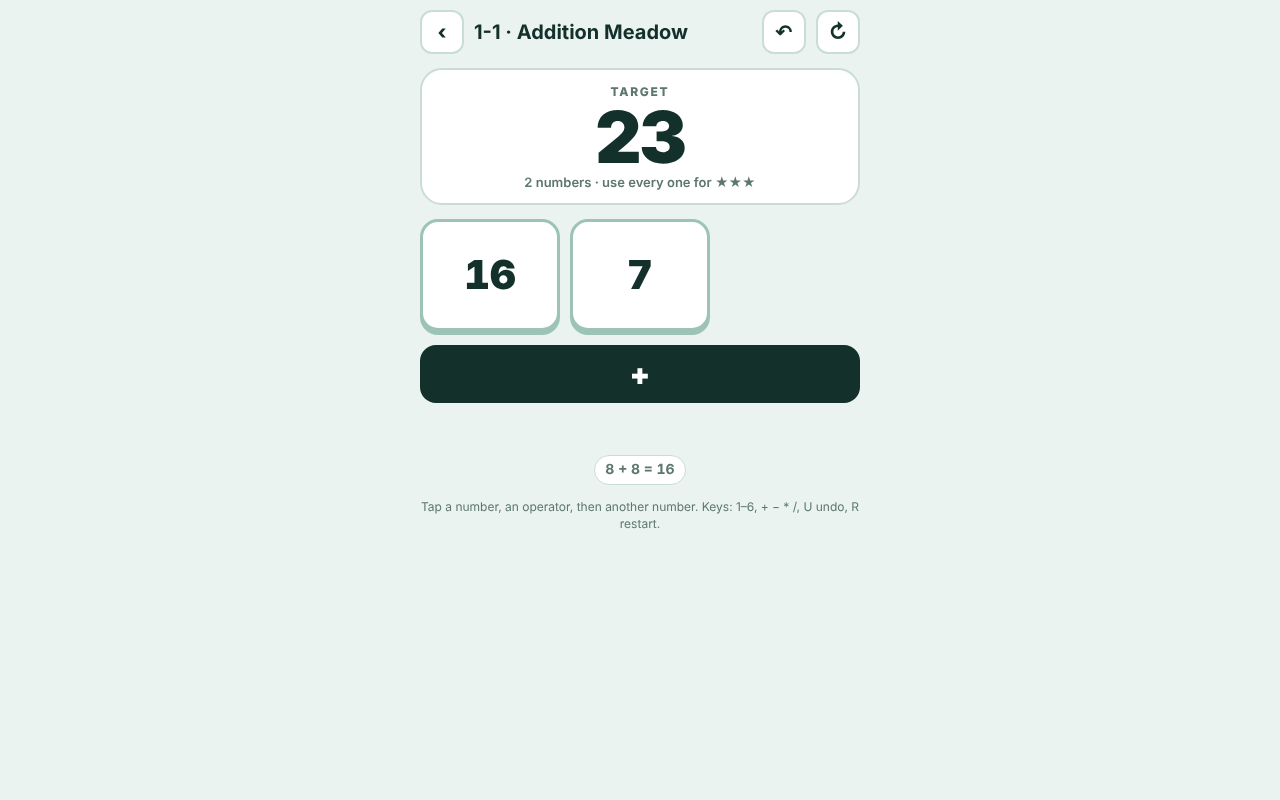
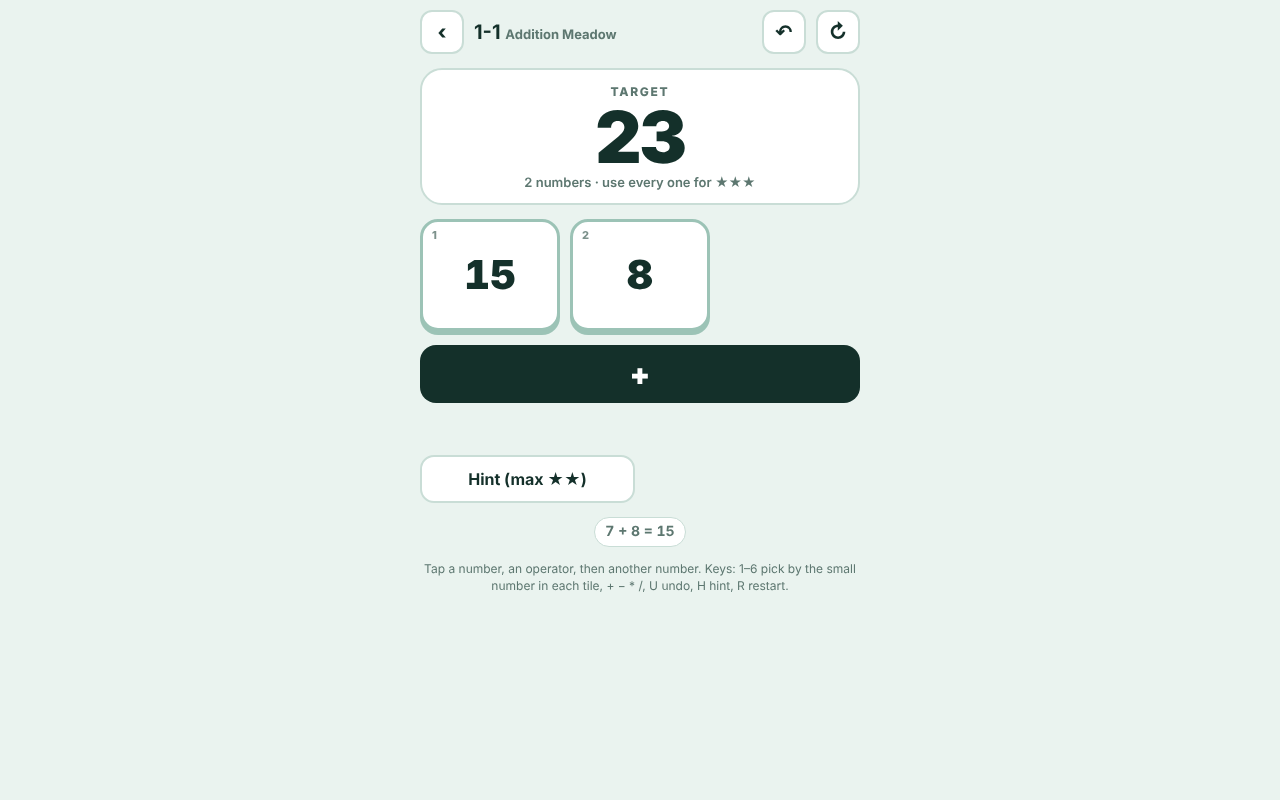
mathly-trails: reviewer fixes — Enter skip, tile position badges, hints, world star gate, harder sorted boards
Claude-Session: https://claude.ai/code/session_014SCvTSvNFtm4ysqQK3KLDP

diff --git a/games/mathly-trails/index.html b/games/mathly-trails/index.html
@@ -99,6 +99,11 @@
   .log { display: flex; flex-wrap: wrap; gap: 6px; justify-content: center; min-height: 30px; }
   .log span { font: 700 14px var(--font); font-variant-numeric: tabular-nums; padding: 4px 10px; border-radius: 999px; background: var(--panel); border: 1px solid var(--line); color: var(--muted); }
   #finishBtn[hidden] { display: none; }
+  .tile .pos { position: absolute; top: 6px; left: 9px; font: 800 11px var(--font); color: var(--muted); opacity: .8; }
+  .tile { position: relative; }
+  .tile.hint { outline: 3px dashed var(--good); outline-offset: 3px; }
+  .op.hint { outline: 3px dashed var(--good); outline-offset: 3px; }
+  .bar h2 small { font-size: 13px; color: var(--muted); font-weight: 700; }
   .overlay { position: fixed; inset: 0; z-index: 5; display: grid; place-items: center; background: rgba(8,20,17,.55); padding: 16px; }
   .overlay[hidden] { display: none; }
   .panel { width: min(100%, 360px); background: var(--panel); border-radius: 22px; padding: 20px 18px 18px; text-align: center; box-shadow: 0 20px 50px rgba(0,0,0,.3); display: grid; gap: 12px; }
@@ -144,9 +149,9 @@
     <div class="tiles" id="tiles"></div>
     <div class="opsrow" id="opsrow"></div>
     <p id="msg" aria-live="polite"></p>
-    <button class="btn" id="finishBtn" hidden>Finish ★</button>
+    <div class="row2"><button class="btn2" id="hintBtn">Hint (max ★★)</button><button class="btn2" id="finishBtn" hidden>Finish ★</button></div>
     <div class="log" id="log"></div>
-    <p class="help" id="keysHelp">Tap a number, an operator, then another number. Keys: 1–6, + − * /, U undo, R restart.</p>
+    <p class="help" id="keysHelp">Tap a number, an operator, then another number. Keys: 1–6 pick by the small number in each tile, + − * /, U undo, H hint, R restart.</p>
   </section>
 
   <div class="overlay" id="ov" hidden>
@@ -185,11 +190,13 @@ const pick = (r, arr) => arr[Math.floor(r() * arr.length)];
 // build a hand of numbers and a target that has a route using every number
 function generate(spec, seed) {
   const r = rng(seed);
-  for (let attempt = 0; attempt < 5000; attempt++) {
+  for (let attempt = 0; attempt < 6000; attempt++) {
+    const cap = spec.cap ? spec.cap * (attempt < 2000 ? 1 : attempt < 4000 ? 3 : 1e9) : 0;
     const nums = [];
     for (let i = 0; i < spec.n; i++) {
       let v = pick(r, spec.pool);
-      if (v >= 25 && nums.includes(v)) v = pick(r, range(1, 9));
+      if ((v >= 25 || v === 1) && nums.includes(v)) v = pick(r, range(2, 9));
+      if (nums.filter((q) => q === v).length >= 2) v = pick(r, range(2, 9));
       nums.push(v);
     }
     let list = nums.slice(), route = [], used = new Set(), ok = true;
@@ -217,7 +224,11 @@ function generate(spec, seed) {
     if (nums.includes(target)) continue;
     const sum = nums.reduce((a, b) => a + b, 0);
     if (spec.ops.length > 1 && target === sum) continue;
-    return { tiles: nums, target, ops: spec.ops, route };
+    if (spec.avoid && spec.avoid.has(target)) continue;
+    if (nums.length > 3 && oneMerge(nums, target, spec.ops)) continue;   // no single-merge shortcuts
+    const routes = cap ? countRoutes(nums, target, spec.ops, cap) : 0;
+    if (cap && routes > cap) continue;
+    return { tiles: nums, target, ops: spec.ops, route, routes };
   }
   throw new Error("generator failed");
 }
@@ -225,25 +236,76 @@ function levelSpec(i) {
   const w = WORLDS[Math.floor(i / PER_WORLD)], l = i % PER_WORLD;
   return { n: w.n[l], ops: w.ops[l], pool: w.pool, t: w.t, must: w.must[l] };
 }
-const levelCache = {};
+// all-tile routes allowed per board (fewer routes = harder), see capFor(); each world's boards are sorted easiest first
+const worldCache = {};
+// Precomputed from the generator below (same seeds and rules) so the map opens instantly.
+const TRAIL_DATA = [
+  [{"tiles":[8,8,7],"target":23,"routes":0},
+   {"tiles":[9,6,9],"target":24,"routes":3},
+   {"tiles":[8,2,9],"target":15,"routes":3},
+   {"tiles":[8,3,5,6],"target":16,"routes":18},
+   {"tiles":[5,7,8,5],"target":11,"routes":18},
+   {"tiles":[8,3,1,6],"target":12,"routes":18},
+   {"tiles":[5,4,9,5,6],"target":17,"routes":180},
+   {"tiles":[9,5,4,6,8],"target":20,"routes":180}],
+  [{"tiles":[2,2,9,4],"target":144,"routes":22},
+   {"tiles":[4,1,2,6],"target":20,"routes":12},
+   {"tiles":[11,6,1,8],"target":59,"routes":10},
+   {"tiles":[8,1,11,5],"target":82,"routes":5},
+   {"tiles":[9,7,11,3,9],"target":100,"routes":78},
+   {"tiles":[8,4,8,5,9],"target":105,"routes":76},
+   {"tiles":[7,12,1,6,3],"target":62,"routes":68},
+   {"tiles":[2,4,9,9,10],"target":25,"routes":62}],
+  [{"tiles":[5,50,4,1],"target":30,"routes":15},
+   {"tiles":[50,8,1,8],"target":48,"routes":8},
+   {"tiles":[8,1,50,9,3],"target":168,"routes":41},
+   {"tiles":[25,7,10,5,1],"target":44,"routes":30},
+   {"tiles":[3,10,50,8,25],"target":32,"routes":26},
+   {"tiles":[50,4,2,1,6],"target":255,"routes":5},
+   {"tiles":[6,8,50,7,8,10],"target":239,"routes":244},
+   {"tiles":[5,8,3,10,5,10],"target":261,"routes":146}],
+  [{"tiles":[25,50,1,6,3],"target":225,"routes":142},
+   {"tiles":[50,7,5,2,7],"target":126,"routes":26},
+   {"tiles":[5,50,9,4,100],"target":891,"routes":25},
+   {"tiles":[9,7,100,50,9,7],"target":738,"routes":240},
+   {"tiles":[100,25,3,9,75,4],"target":746,"routes":183},
+   {"tiles":[75,1,7,7,4,10],"target":529,"routes":98},
+   {"tiles":[6,5,6,100,5,4],"target":342,"routes":90},
+   {"tiles":[4,2,3,3,4,5],"target":242,"routes":28}]
+];
+function worldLevels(w) {
+  if (worldCache[w]) return worldCache[w];
+  if (TRAIL_DATA[w]) return (worldCache[w] = TRAIL_DATA[w].map((g, l) => ({ ...g, ops: levelSpec(w * PER_WORLD + l).ops, kind: "trail", index: w * PER_WORLD + l, id: `${w + 1}-${l + 1}`, world: w })));
+  const avoid = new Set(), out = [];
+  for (let l = 0; l < PER_WORLD; l++) {
+    const i = w * PER_WORLD + l;
+    const sp = levelSpec(i);
+    const g = generate({ ...sp, cap: l === 0 && w === 0 ? 0 : capFor(sp.n), avoid }, 1000 + i * 7919);
+    avoid.add(g.target); out.push(g);
+  }
+  const first = w === 0 ? out.shift() : null;   // 1-1 stays the tutorial
+  // keep each slot's tile count/ops (they grow through the world); within equal specs, more routes first
+  const slots = out.map((g, k) => ({ g, k: k + (first ? 1 : 0) }));
+  slots.sort((x, y) => x.g.tiles.length - y.g.tiles.length || x.g.ops.length - y.g.ops.length || y.g.routes - x.g.routes);
+  const list = first ? [first, ...slots.map((x) => x.g)] : slots.map((x) => x.g);
+  return (worldCache[w] = list.map((g, l) => ({ ...g, kind: "trail", index: w * PER_WORLD + l, id: `${w + 1}-${l + 1}`, world: w })));
+}
 function trailLevel(i) {
-  if (!levelCache[i]) levelCache[i] = { ...generate(levelSpec(i), 1000 + i * 7919), kind: "trail", index: i,
-    id: `${Math.floor(i / PER_WORLD) + 1}-${(i % PER_WORLD) + 1}`, world: Math.floor(i / PER_WORLD) };
-  return levelCache[i];
+  return worldLevels(Math.floor(i / PER_WORLD))[i % PER_WORLD];
 }
 function todayKey() { const d = new Date(); return `${d.getFullYear()}-${String(d.getMonth() + 1).padStart(2, "0")}-${String(d.getDate()).padStart(2, "0")}`; }
 function dailyLevel() {
   const key = todayKey(), seed = Number(key.replace(/-/g, ""));
-  return { ...generate({ n: 6, ops: ["+", "-", "×", "÷"], pool: WORLDS[3].pool, t: [100, 999], must: "×" }, seed), kind: "daily", id: key, world: 3 };
+  return { ...generate({ n: 6, ops: ["+", "-", "×", "÷"], pool: WORLDS[3].pool, t: [100, 999], must: "×", cap: capFor(6) }, seed), kind: "daily", id: key, world: 3 };
 }
 function randomLevel(world) {
   const w = WORLDS[world];
-  const spec = { n: w.n[PER_WORLD - 1], ops: w.ops[PER_WORLD - 1], pool: w.pool, t: w.t, must: w.must[PER_WORLD - 1] };
+  const spec = { n: w.n[PER_WORLD - 1], ops: w.ops[PER_WORLD - 1], pool: w.pool, t: w.t, must: w.must[PER_WORLD - 1], cap: capFor(w.n[PER_WORLD - 1]) };
   return { ...generate(spec, (Math.random() * 2 ** 31) | 0), kind: "random", id: "Random", world };
 }
 
 // ======================= core (pure, no DOM) =======================
-function newGame(level) { return { level, tiles: level.tiles.slice(), target: level.target, ops: level.ops, history: [], log: [], done: false }; }
+function newGame(level) { return { level, tiles: level.tiles.slice(), target: level.target, ops: level.ops, history: [], log: [], done: false, hinted: false }; }
 // a and b index into g.tiles; result "a op b" takes b's place. Returns {ok, reason}.
 function merge(g, a, op, b) {
   if (g.done || a === b || a < 0 || b < 0 || a >= g.tiles.length || b >= g.tiles.length || !g.ops.includes(op)) return { ok: false, reason: "That move isn't available." };
@@ -258,7 +320,7 @@ function merge(g, a, op, b) {
 }
 function undo(g) { if (!g.history.length || g.done) return false; const h = g.history.pop(); g.tiles = h.tiles; g.log = h.log; return true; }
 const made = (g) => g.tiles.includes(g.target);
-const starsNow = (g) => !made(g) ? 0 : g.tiles.length === 1 ? 3 : g.tiles.length === 2 ? 2 : 1;
+const starsNow = (g) => { const s = !made(g) ? 0 : g.tiles.length === 1 ? 3 : g.tiles.length === 2 ? 2 : 1; return g.hinted ? Math.min(2, s) : s; };
 function validMerges(g) {
   const out = [];
   for (let a = 0; a < g.tiles.length; a++) for (let b = 0; b < g.tiles.length; b++) {
@@ -267,6 +329,36 @@ function validMerges(g) {
   }
   return out;
 }
+
+function oneMerge(nums, target, ops) {
+  for (let a = 0; a < nums.length; a++) for (let b = 0; b < nums.length; b++) if (a !== b) for (const op of ops) if (OPS[op](nums[a], nums[b]) === target) return true;
+  return false;
+}
+// number of distinct all-tile routes (commutative merges counted once), stops early past cap
+function countRoutes(tiles, target, ops, cap, budget = 150000) {
+  const memo = new Map();
+  let visits = 0;
+  function rec(t) {
+    if (++visits > budget) return Infinity;
+    if (t.length === 1) return t[0] === target ? 1 : 0;
+    const key = t.slice().sort((p, q) => p - q).join(",");
+    if (memo.has(key)) return memo.get(key);
+    let n = 0;
+    for (let a = 0; a < t.length && n <= cap; a++) for (let b = 0; b < t.length; b++) {
+      if (a === b) continue;
+      for (const op of ops) {
+        if ((op === "+" || op === "×") && a > b) continue;
+        const v = OPS[op](t[a], t[b]);
+        if (!Number.isInteger(v) || v <= 0 || v > MAXV) continue;
+        const nt = t.slice(); nt[b] = v; nt.splice(a, 1);
+        n += rec(nt);
+      }
+    }
+    memo.set(key, n); return n;
+  }
+  return rec(tiles);
+}
+const capFor = (n) => ({ 3: Infinity, 4: 40, 5: 150, 6: 300 })[n] || Infinity;
 
 // ======================= solver =======================
 // depth-first search for a route that uses every tile; returns merge actions (indexes as they are at each step)
@@ -297,9 +389,12 @@ let save = { stars: {}, daily: {}, muted: false };
 try { const s = JSON.parse(localStorage.getItem("mathly-trails-v1") || "null"); if (s && typeof s === "object") save = { stars: s.stars || {}, daily: s.daily || {}, muted: !!s.muted }; } catch (e) {}
 function persist() { try { localStorage.setItem("mathly-trails-v1", JSON.stringify(save)); } catch (e) {} }
 const starsOf = (i) => save.stars[trailLevel(i).id] || 0;
+const WORLD_GATE = 14;   // stars needed in a world to travel to the next one
+const worldStars = (w) => { let n = 0; for (let l = 0; l < PER_WORLD; l++) n += starsOf(w * PER_WORLD + l); return n; };
 function unlocked(i) {
   if (i === 0) return true;
-  return starsOf(i - 1) > 0;   // the previous level (also the previous world's last level) must be cleared
+  if (i % PER_WORLD === 0) return starsOf(i - 1) > 0 && worldStars(i / PER_WORLD - 1) >= WORLD_GATE;
+  return starsOf(i - 1) > 0;
 }
 function firstOpen() { for (let i = 0; i < TRAIL; i++) if (!starsOf(i)) return unlocked(i) ? i : Math.max(0, i - 1); return TRAIL - 1; }
 
@@ -322,7 +417,7 @@ const SFX = {
 
 // ======================= UI =======================
 const $ = (id) => document.getElementById(id);
-let screen = "title", game = null, sel = { a: null, op: null }, lastMerged = -1, finished = false;
+let screen = "title", game = null, sel = { a: null, op: null }, lastMerged = -1, finished = false, hint = null;
 function show(id) { screen = id; for (const s of ["title", "map", "play"]) $(s).hidden = s !== id; $("ov").hidden = true; }
 function goTitle() { show("title"); const f = firstOpen(); $("contBtn").textContent = Object.keys(save.stars).length ? `Continue ${trailLevel(f).id}` : "Play"; paintMute(); }
 function paintMute() { $("muteBtn").textContent = save.muted ? "Sound: off" : "Sound: on"; $("muteBtn").setAttribute("aria-label", save.muted ? "Unmute sound" : "Mute sound"); }
@@ -337,8 +432,8 @@ function goMap() {
   let html = "";
   WORLDS.forEach((w, wi) => {
     const open = unlocked(wi * PER_WORLD);
-    html += `<div class="card world${open ? "" : " locked"}" style="--wc:${w.color}"><h3>${wi + 1} · ${w.name} <small class="ops">${[...new Set(w.ops.flat())].map((o) => OP_LABEL[o]).join(" ")}</small></h3>`;
-    html += `<p>${open ? w.blurb : `Clear ${wi}-8 to travel here.`}</p><div class="trail" data-w="${wi}">`;
+    html += `<div class="card world${open ? "" : " locked"}" style="--wc:${w.color}"><h3>${wi + 1} · ${w.name} <small class="ops">${open ? worldStars(wi) + "/24★ · " : ""}${[...new Set(w.ops.flat())].map((o) => OP_LABEL[o]).join(" ")}</small></h3>`;
+    html += `<p>${open ? w.blurb : `Clear ${wi}-8 and earn ${WORLD_GATE}★ in ${WORLDS[wi - 1].name} (${worldStars(wi - 1)}/${WORLD_GATE}) to travel here.`}</p><div class="trail" data-w="${wi}">`;
     // serpentine: row 1 left→right, row 2 right→left
     const order = [0, 1, 2, 3, 7, 6, 5, 4];
     for (const slot of order) {
@@ -365,9 +460,9 @@ function drawTrails() {
   });
 }
 function startLevel(level) {
-  game = newGame(level); sel = { a: null, op: null }; lastMerged = -1; finished = false;
+  game = newGame(level); sel = { a: null, op: null }; lastMerged = -1; finished = false; hint = null;
   show("play");
-  $("lvlName").textContent = level.kind === "trail" ? `${level.id} · ${WORLDS[level.world].name}` : level.kind === "daily" ? `Daily · ${level.id}` : `Random · ${WORLDS[level.world].name}`;
+  $("lvlName").innerHTML = level.kind === "trail" ? `${level.id} <small>${WORLDS[level.world].name}</small>` : level.kind === "daily" ? `Daily <small>${level.id}</small>` : `Random <small>${WORLDS[level.world].name}</small>`;
   renderOps(); render();
   setMsg(level.kind === "trail" && level.index === 0 ? "Tap a number, then +, then another number." : "");
 }
@@ -379,8 +474,10 @@ function render() {
   const m = made(game), st = starsNow(game);
   $("targetCard").classList.toggle("made", m);
   $("goalLine").textContent = m ? (st === 3 ? "Every number used ★★★" : `Made with ${game.tiles.length - 1} left · use them all for ★★★`) : `${game.tiles.length} numbers · use every one for ★★★`;
-  $("tiles").innerHTML = game.tiles.map((v, i) => `<button class="tile${sel.a === i ? " sel" : ""}${v === game.target ? " hit" : ""}${i === lastMerged ? " pop" : ""}" data-i="${i}" aria-label="${v}${sel.a === i ? ", selected" : ""}">${v}</button>`).join("");
-  document.querySelectorAll(".op").forEach((b) => b.classList.toggle("sel", b.dataset.op === sel.op));
+  $("tiles").innerHTML = game.tiles.map((v, i) => `<button class="tile${sel.a === i ? " sel" : ""}${v === game.target ? " hit" : ""}${i === lastMerged ? " pop" : ""}" data-i="${i}" aria-label="${v}${sel.a === i ? ", selected" : ""}"><span class="pos" aria-hidden="true">${i + 1}</span>${v}</button>`).join("");
+  if (hint) { const t = $("tiles").children; if (t[hint.a]) t[hint.a].classList.add("hint"); if (t[hint.b]) t[hint.b].classList.add("hint"); }
+  document.querySelectorAll(".op").forEach((b) => { b.classList.toggle("sel", b.dataset.op === sel.op); b.classList.toggle("hint", !!hint && b.dataset.op === hint.op); });
+  $("hintBtn").disabled = game.done;
   $("log").innerHTML = game.log.map((s) => `<span>${s}</span>`).join("");
   $("undoBtn").disabled = !game.history.length;
   $("finishBtn").hidden = !m || game.tiles.length === 1;
@@ -412,7 +509,7 @@ function doMerge(a, op, b) {
     const el = $("tiles").children[b]; if (el) el.classList.add("shake");
     return false;
   }
-  sel = { a: null, op: null }; lastMerged = r.at;
+  sel = { a: null, op: null }; lastMerged = r.at; hint = null;
   SFX.merge(Math.min(12, game.log.length * 2));
   render();
   afterMove(wasMade);
@@ -440,7 +537,7 @@ function finish() {
   const isLast = L.kind === "trail" && L.index === TRAIL - 1;
   $("nextBtn").textContent = L.kind === "trail" ? (isLast ? "Trail map" : (L.index + 1) % PER_WORLD === 0 ? `Travel to ${WORLDS[L.world + 1].name}` : "Next level") : L.kind === "daily" ? "Trail map" : "New random board";
   $("ov").hidden = false; screen = "won";
-  $("nextBtn").focus({ preventScroll: true });
+  requestAnimationFrame(() => $("nextBtn").focus({ preventScroll: true }));
 }
 function next() {
   const L = game.level;
@@ -455,6 +552,16 @@ $("opsrow").addEventListener("click", (e) => { const t = e.target.closest("[data
 $("undoBtn").addEventListener("click", () => { if (undo(game)) { sel = { a: null, op: null }; SFX.undo(); render(); afterMove(false); } });
 $("restartBtn").addEventListener("click", () => startLevel(game.level));
 $("finishBtn").addEventListener("click", finish);
+$("hintBtn").addEventListener("click", giveHint);
+function giveHint() {
+  if (screen !== "play" || game.done) return;
+  const r = solveTiles(game.tiles, game.target, game.ops);
+  if (!r) { setMsg("No route uses every number from here. Undo ↶ a step or two.", "bad"); return; }
+  if (!r.length) return;
+  game.hinted = true; hint = r[0]; sel = { a: null, op: null };
+  render();
+  setMsg(`Try ${game.tiles[hint.a]} ${OP_LABEL[hint.op]} ${game.tiles[hint.b]}. Hints cap this board at ★★.`, "good");
+}
 $("playBack").addEventListener("click", goMap);
 $("mapBack").addEventListener("click", goTitle);
 $("contBtn").addEventListener("click", () => { ensureAudio(); startLevel(trailLevel(firstOpen())); });
@@ -483,7 +590,8 @@ document.addEventListener("keydown", (e) => {
   if (KEYOP[e.key] && game.ops.includes(KEYOP[e.key])) { e.preventDefault(); tapOp(KEYOP[e.key]); return; }
   if (e.key === "u" || e.key === "U" || e.key === "Backspace") { e.preventDefault(); $("undoBtn").click(); return; }
   if (e.key === "r" || e.key === "R") { startLevel(game.level); return; }
-  if (e.key === "Enter" && made(game)) { finish(); return; }
+  if (e.key === "Enter" && made(game)) { e.preventDefault(); finish(); return; }
+  if (e.key === "h" || e.key === "H") { giveHint(); return; }
   if (e.key === "Escape") { if (sel.a !== null) { sel = { a: null, op: null }; render(); } else goMap(); }
 });
 
